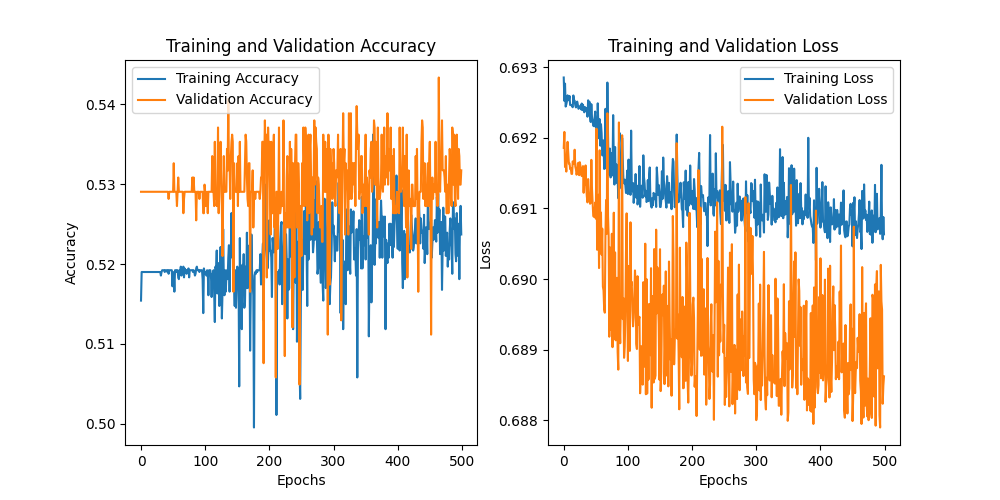
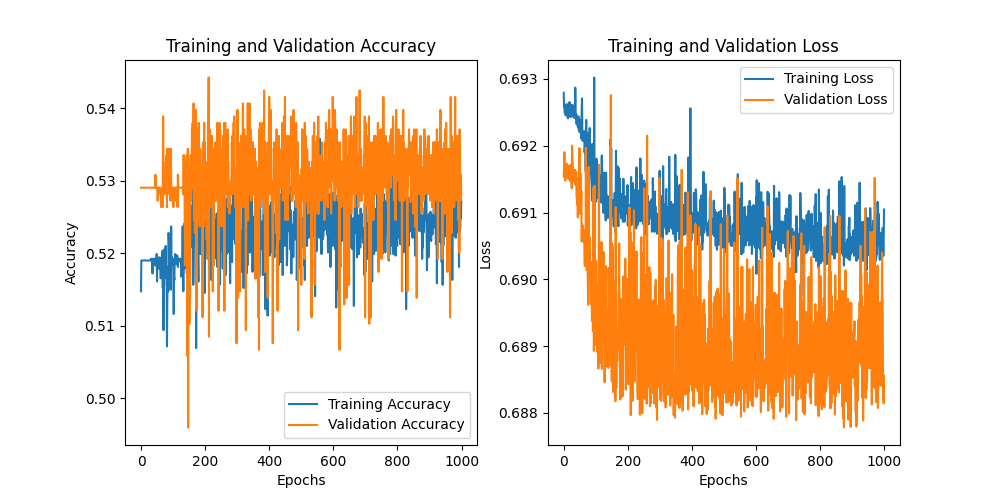
more epochs; new diagnostics plot and testing plot

diff --git a/main.py b/main.py
@@ -98,7 +98,7 @@ def display_diagnostics( epoch_count : int, history, save_path : str ):
 #========================================================
 
 look_ahead = 5
-epochs = 500
+epochs = 1000
 
 display_training = False
 display_results = False
